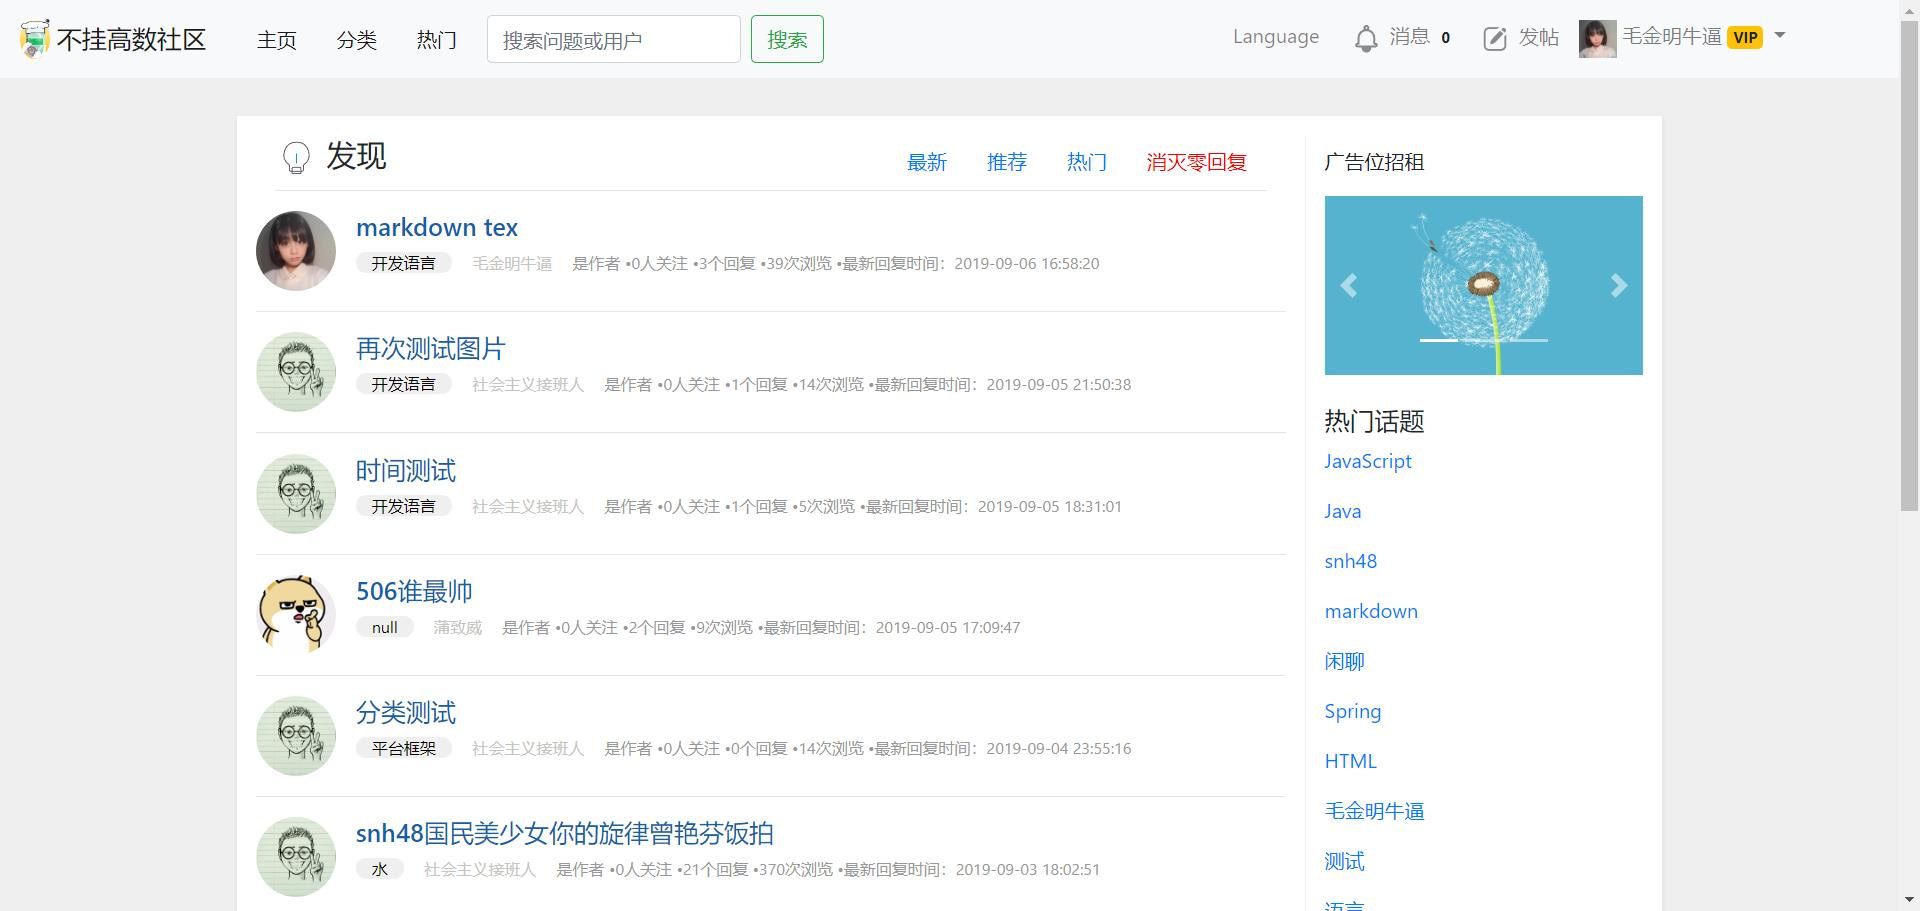
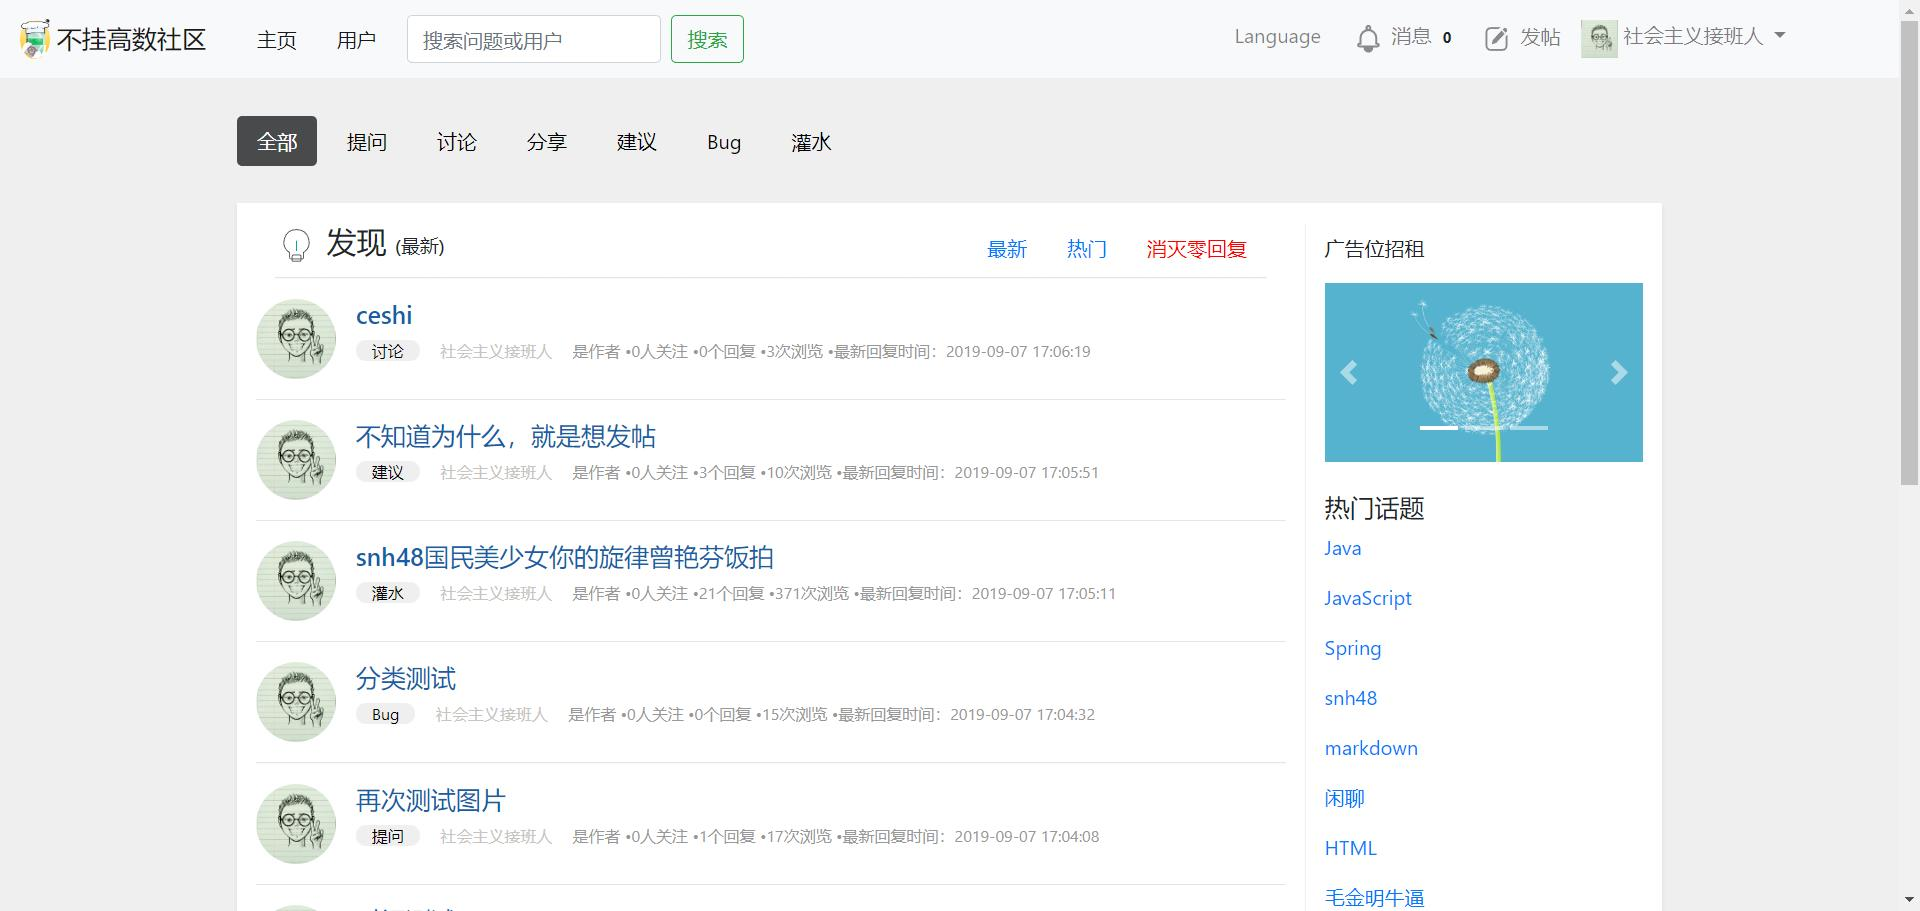
完善主页修复排序

diff --git a/src/main/resources/templates/index.html b/src/main/resources/templates/index.html
@@ -94,7 +94,12 @@
                     <div class="col">
                         <h4>
                             <img src="image/icon/found.svg" width="35" height="35"/>
-                            发现
+                            <span th:if="${tag != null}" th:text="${tag}">
+
+                            </span>
+                            <span th:if="${tag==null || tag == ''}">发现</span>
+                            <span th:if="${sort == '0'}" style="font-size: 15px">(零回复)</span>
+                            <span th:if="${sort == '3'}" style="font-size: 15px">(最新)</span>
                         </h4>
                     </div>
                     <div class="col-7">
@@ -103,10 +108,7 @@
                                 <a class="nav-link active" id="new-nav" th:href="@{/(tag=${tag},sort=3,class=${class})}">最新</a>
                             </li>
                             <li class="nav-item">
-                                <a class="nav-link" href="#" onclick="alert('正在施工中！！！')">推荐</a>
-                            </li>
-                            <li class="nav-item">
-                                <a class="nav-link" href="#" onclick="alert('没错还在施工中！！！')">热门</a>
+                                <a class="nav-link" href="#" onclick="alert('正在施工中！！！')">热门</a>
                             </li>
                             <li class="nav-item">
                                 <a class="nav-link" id="no-nav" th:href="@{/(tag=${tag},sort=0,class=${class})}" style="color: red;">消灭零回复</a>

diff --git a/src/main/java/com/buguagaoshu/community/mapper/QuestionMapper.java b/src/main/java/com/buguagaoshu/community/mapper/QuestionMapper.java
@@ -284,7 +284,7 @@ public interface QuestionMapper {
      * @param status 状态
      * @return 搜索结果
      * */
-    @Select("select * from Questions where classification=#{classification} AND title regexp #{search} or tag regexp #{search} and status=#{status} order by questionId desc limit #{page}, #{size}")
+    @Select("select * from Questions where classification=#{classification} AND (title regexp #{search} or tag regexp #{search}) and status=#{status} order by questionId desc limit #{page}, #{size}")
     List<Question> searchQuestionC(@Param("search") String search, @Param("classification") String classification, @Param("page") long page, @Param("size") long size, @Param("status") int status);
 
 
@@ -295,7 +295,7 @@ public interface QuestionMapper {
      * @param status 状态
      * @return  返回正则搜索的数量
      * */
-    @Select("select COUNT(*) from Questions where classification=#{classification} AND title regexp #{search} or tag regexp #{search} and status=#{status}")
+    @Select("select COUNT(*) from Questions where classification=#{classification} AND (title regexp #{search} or tag regexp #{search}) and status=#{status}")
     long searchQuestionCountC(@Param("search") String search, @Param("classification") String classification, @Param("status") int status);
 
 
@@ -308,14 +308,14 @@ public interface QuestionMapper {
      * @param status 状态
      * @return 搜索结果
      * */
-    @Select("select * from Questions where classification=#{classification} AND title regexp #{search} or tag regexp #{search} and status=#{status} AND commentCount=0 order by questionId desc limit #{page}, #{size}")
+    @Select("select * from Questions where classification=#{classification} AND (title regexp #{search} or tag regexp #{search}) and status=#{status} AND commentCount=0 order by questionId desc limit #{page}, #{size}")
     List<Question> selectQuestionUseCommentCountBySearchC(@Param("search") String search, @Param("classification") String classification, @Param("page") long page, @Param("size") long size, @Param("status") int status);
 
 
     /**
      * 查找当前分类且和标签下零回复问题数量
      * */
-    @Select("select COUNT(*) from Questions where classification=#{classification} AND title regexp #{search} or tag regexp #{search} and status=#{status} AND commentCount=0")
+    @Select("select COUNT(*) from Questions where classification=#{classification} AND (title regexp #{search} or tag regexp #{search}) and status=#{status} AND commentCount=0")
     long selectQuestionUseCommentCountBySearchNumberC(@Param("search") String search, @Param("classification") String classification, @Param("status") int status);
 
 

diff --git a/src/main/java/com/buguagaoshu/community/service/impl/QuestionServiceImpl.java b/src/main/java/com/buguagaoshu/community/service/impl/QuestionServiceImpl.java
@@ -103,7 +103,6 @@ public class QuestionServiceImpl implements QuestionService {
                     allQuestionCount = questionMapper.searchQuestionCountC(tag, QuestionClassType.getNameStr(classification), 1);
                     param = NumberUtils.getPageAndSize(page, size, allQuestionCount);
                     questionList = questionMapper.searchQuestionC(tag, QuestionClassType.getNameStr(classification), param[0], param[1], 1);
-
                 } else {
                     allQuestionCount = questionMapper.searchQuestionCount(tag, 1);
                     // 计算分页参数

diff --git a/src/test/java/com/buguagaoshu/community/CommunityApplicationTests.java b/src/test/java/com/buguagaoshu/community/CommunityApplicationTests.java
@@ -61,7 +61,7 @@ public class CommunityApplicationTests {
 //        newUser.setLikes("毛金明牛逼");
 //        userMapper.updateUserData(newUser);
         //System.out.println(userMapper.searchUser("puzhiwei", 0 , 10));
-        System.out.println(questionService.getSomeQuestionDto("0","10",null,QuestionSortType.NEW_QUESTION.getType(),1));
+        System.out.println(questionService.getSomeQuestionDto("0","10","java",QuestionSortType.NEW_QUESTION.getType(),1));
     }
 
 }
